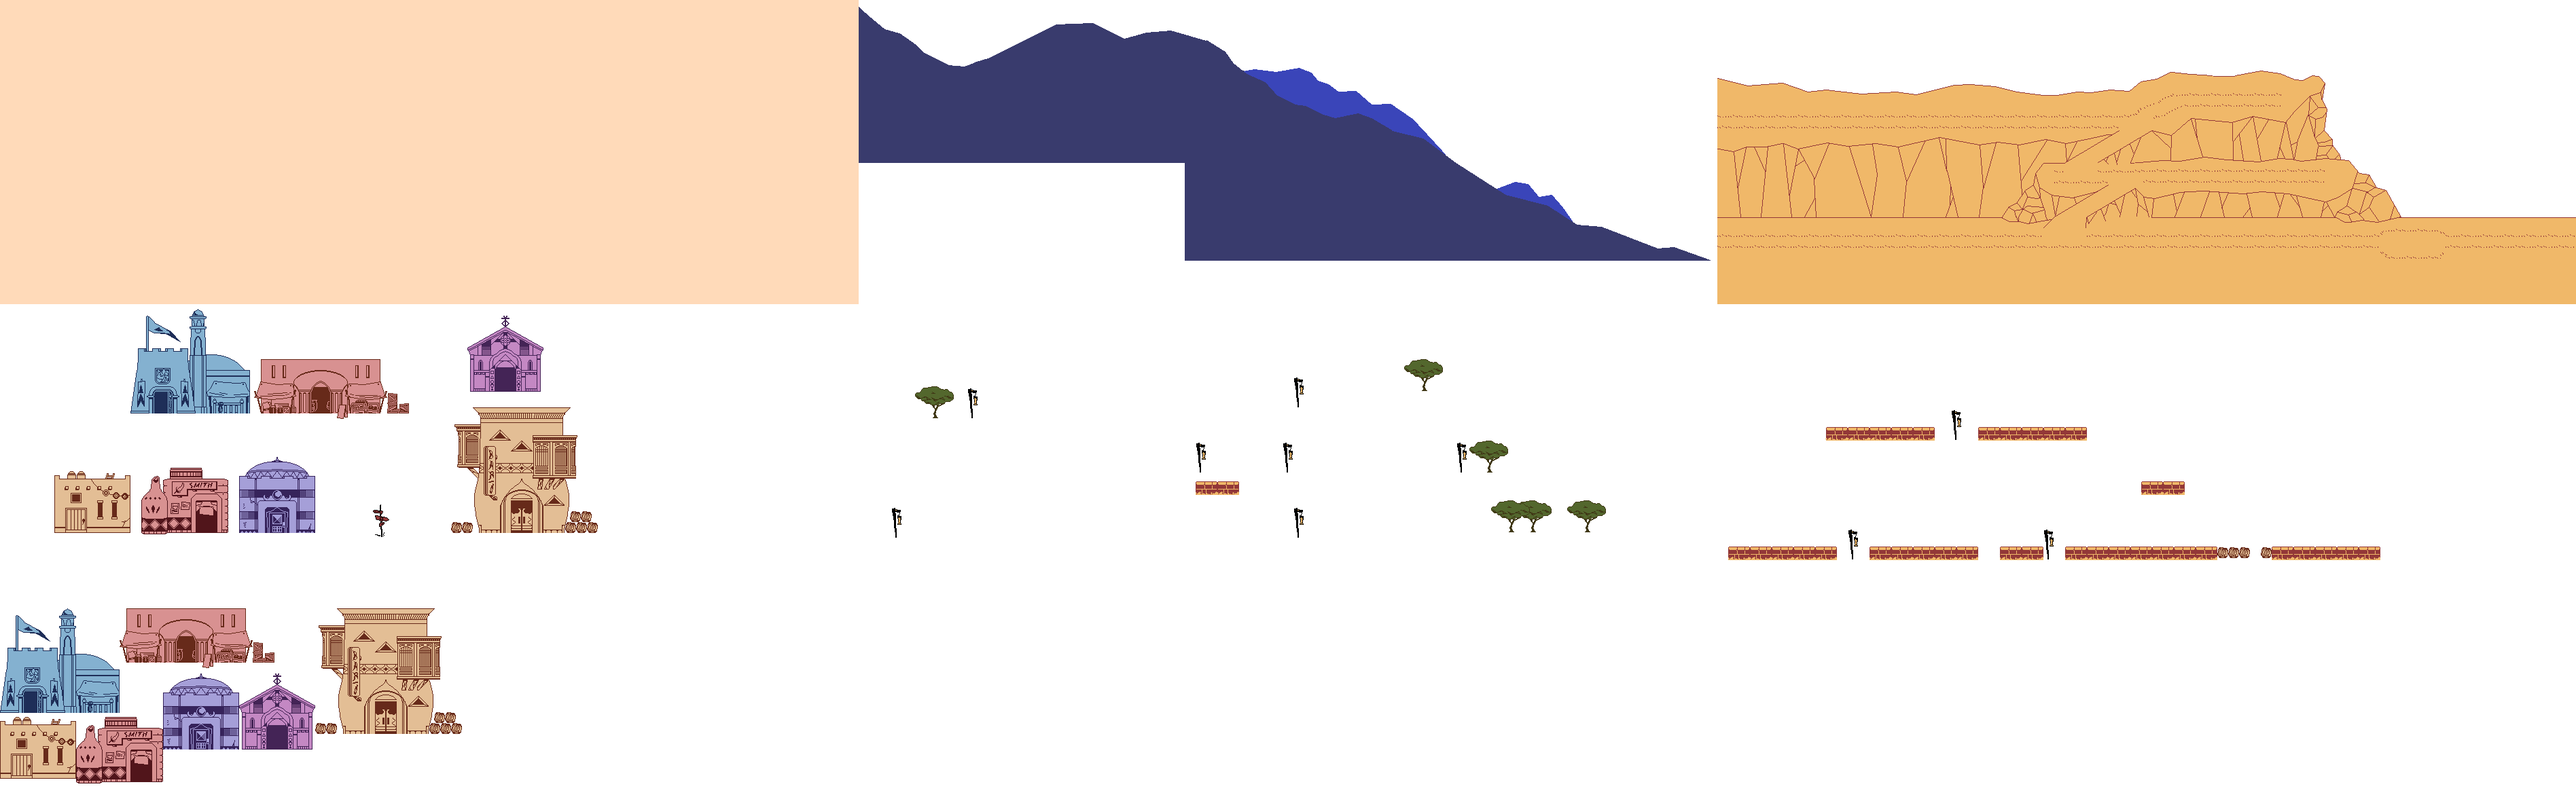
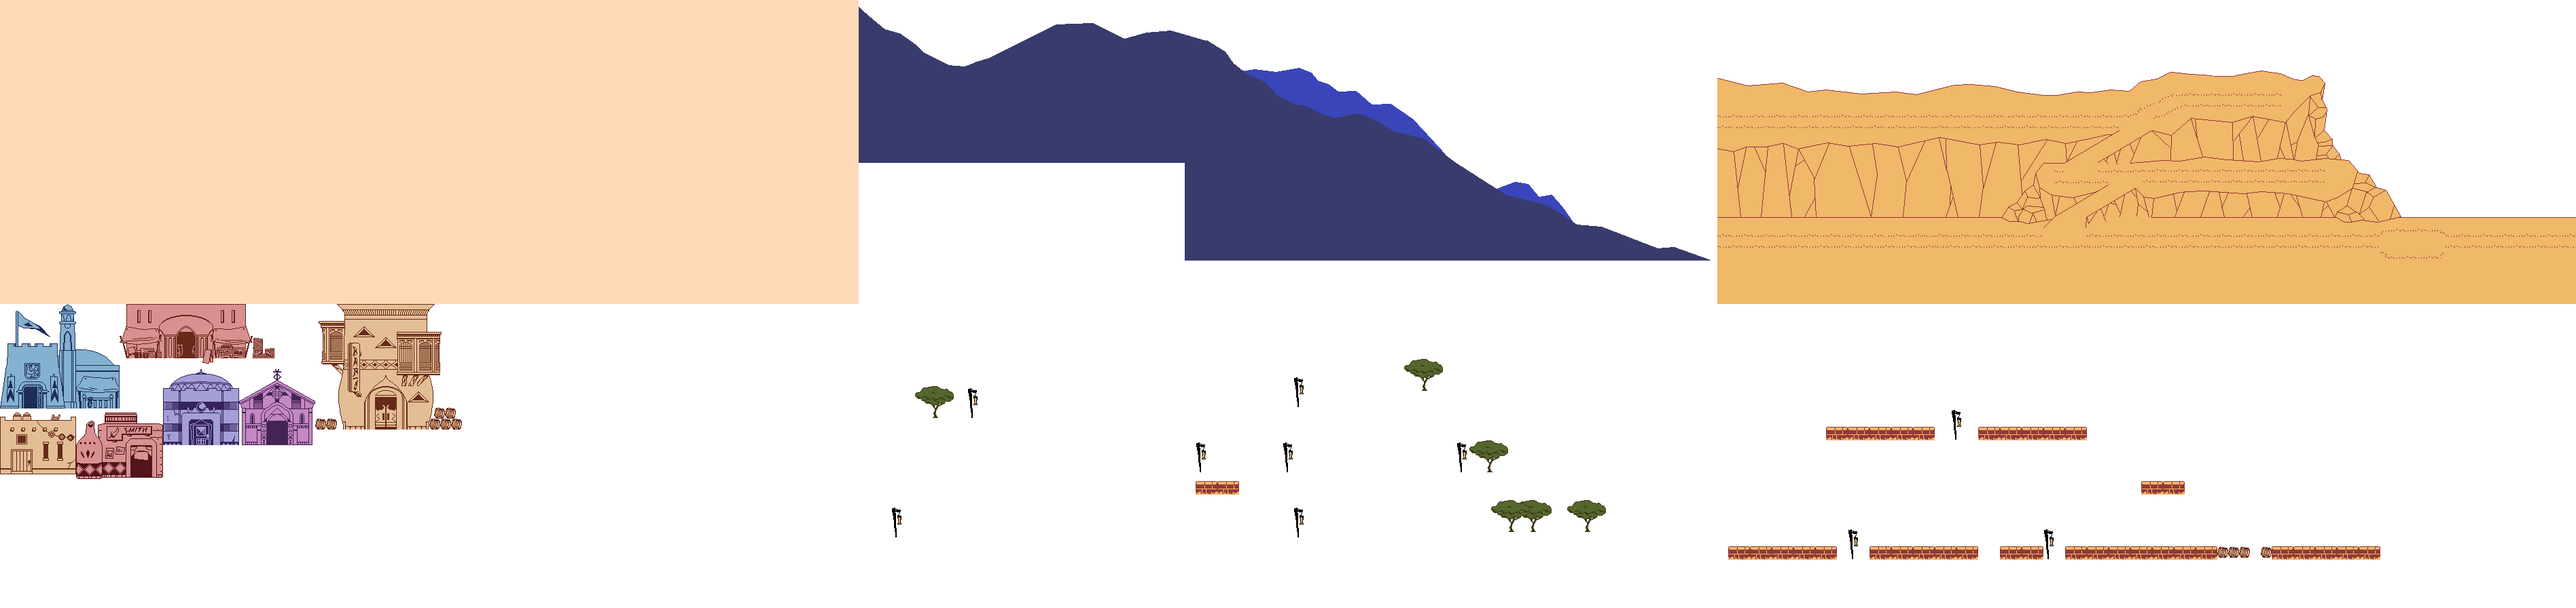
start placing building elements

diff --git a/src/town/areas/akimor_central.py b/src/town/areas/akimor_central.py
@@ -1,7 +1,34 @@
-import assets
+from dataclasses import dataclass
+import lib.vector as vector
 from lib.sprite import Sprite
 from lib.line import connect_lines
+import assets
 from town.sideview.stage import Area, AreaLink, AreaBgLayer
+from config import WINDOW_HEIGHT
+
+BG_LAYERGROUP_OFFSET = (0, -64)
+FG_LAYERGROUP_OFFSET = (0, -52)
+BUILDING_OFFSET = vector.add(FG_LAYERGROUP_OFFSET, (0, -WINDOW_HEIGHT / 2 + 4))
+SPRITE_PREFIX = "akimor_central_"
+
+@dataclass
+class TownBuilding:
+  sprite_id: str
+  pos: tuple[int, int]
+
+  # elem stuff
+  message: str = None
+
+  def update(building):
+    pass
+
+  def view(building):
+    return [Sprite(
+      image=assets.sprites[building.sprite_id],
+      pos=building.pos,
+      layer="elems",
+      origin=Sprite.ORIGIN_BOTTOMLEFT,
+    )]
 
 class AkimorCentralArea(Area):
   name = "Akimor"
@@ -10,33 +37,38 @@ class AkimorCentralArea(Area):
     AreaBgLayer(sprite=Sprite(
       image=assets.sprites["akimor_central_sky"],
       layer="bg",
-      pos=(0, -64),
+      pos=BG_LAYERGROUP_OFFSET,
     ), scaling=(0.5, 1)),
     AreaBgLayer(sprite=Sprite(
       image=assets.sprites["akimor_central_mountains"],
       layer="bg",
-      pos=(0, -64),
+      pos=BG_LAYERGROUP_OFFSET,
     ), scaling=(0.75, 1)),
     AreaBgLayer(sprite=Sprite(
       image=assets.sprites["akimor_central_cliffs"],
       layer="bg",
-      pos=(0, -52),
-    )),
-    AreaBgLayer(sprite=Sprite(
-      image=assets.sprites["akimor_central_buildings"],
-      layer="elems",
-      pos=(0, -52),
+      pos=FG_LAYERGROUP_OFFSET,
     )),
     AreaBgLayer(sprite=Sprite(
       image=assets.sprites["akimor_central_decors_rear"],
       layer="elems",
-      pos=(0, -52),
+      pos=FG_LAYERGROUP_OFFSET,
     )),
     AreaBgLayer(sprite=Sprite(
       image=assets.sprites["akimor_central_decors_front"],
       layer="fg",
-      pos=(0, -52),
+      pos=FG_LAYERGROUP_OFFSET,
     )),
+  ]
+
+  buildings = [
+    TownBuilding(sprite_id=f"{SPRITE_PREFIX}guild_house", pos=vector.add(BUILDING_OFFSET, (192, 160))),
+    TownBuilding(sprite_id=f"{SPRITE_PREFIX}npc_house", pos=vector.add(BUILDING_OFFSET, (80, 336))),
+    TownBuilding(sprite_id=f"{SPRITE_PREFIX}market", pos=vector.add(BUILDING_OFFSET, (368, 160))),
+    TownBuilding(sprite_id=f"{SPRITE_PREFIX}chapel", pos=vector.add(BUILDING_OFFSET, (688, 128))),
+    TownBuilding(sprite_id=f"{SPRITE_PREFIX}blacksmith", pos=vector.add(BUILDING_OFFSET, (208, 336))),
+    TownBuilding(sprite_id=f"{SPRITE_PREFIX}fortune_house", pos=vector.add(BUILDING_OFFSET, (352, 336))),
+    TownBuilding(sprite_id=f"{SPRITE_PREFIX}bar", pos=vector.add(BUILDING_OFFSET, (664, 336))),
   ]
 
   links = {

diff --git a/src/town/sideview/stage.py b/src/town/sideview/stage.py
@@ -30,6 +30,7 @@ class Area:
   geometry = None
   camera_offset = (0, 0)
   actor_offset = 0
+  buildings = []
 
   def __init__(area):
     area.actors = []
@@ -43,7 +44,7 @@ class Area:
     area.draws = 0
 
   def init(area, ctx):
-    pass
+    area.actors += area.buildings
 
   def spawn(area, actor, x, y=0):
     y = (actor.faction == "ally"
@@ -83,19 +84,7 @@ class Area:
       link_name = None
 
     for actor in area.actors:
-      try:
-        actor_sprites = actor.view()
-      except:
-        actor_sprites = []
-        raise
-
-      for sprite in actor_sprites:
-        sprite.target = actor
-        _, sprite_y = sprite.pos
-        if actor is hero and link_name and link_name.startswith("door") and sprite_y < Area.DOOR_Y:
-          sprite.image = darken_image(sprite.image)
-
-      sprites += actor_sprites
+      sprites += actor.view()
 
     # TODO: refactor magic clause
     if link_name and link_name.startswith("door"):

diff --git a/src/town/sideview/actor.py b/src/town/sideview/actor.py
@@ -166,7 +166,7 @@ class Actor:
   def view(actor):
     actor_sprites = actor.core.view()
     actor_sprite = actor_sprites[0]
-    actor_sprite.move(actor.pos)
-    actor_sprite.origin = Sprite.ORIGIN_CENTER
+    actor_sprite.move(vector.add(actor.pos, (0, 16)))
+    actor_sprite.origin = Sprite.ORIGIN_BOTTOM
     actor_sprite.layer = "elems"
     return actor_sprites
